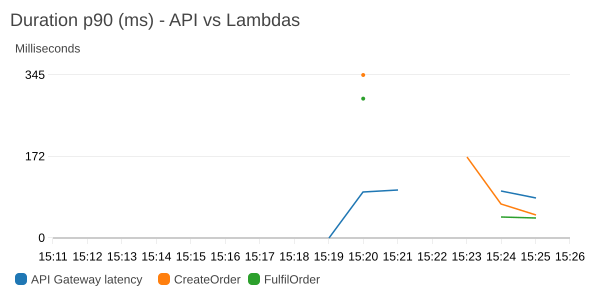
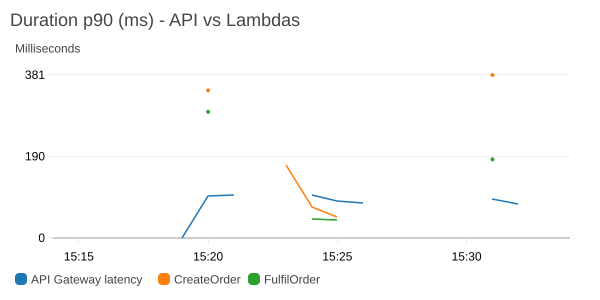
README: refresh dashboard images for the async API
- Re-rendered widgets (incl. the intake queue); alt text describes what each image shows
- Removed the stale fulfilment-only backlog image

diff --git a/README.md b/README.md
@@ -120,10 +120,12 @@ every event in `/aws/events/<stack>`; and the CloudWatch dashboard
 
 | EventBridge `MatchedEvents` | SQS `NumberOfMessagesSent` | SNS `NumberOfMessagesPublished` |
 |---|---|---|
-| ![EventBridge MatchedEvents per rule: three bursts of orders at 14:25, 14:30 and 14:39; the all-events rule peaks at twice the OrderCreated rule](docs/images/dashboard-eventbridge-matchedevents-per-rule.png) | ![SQS NumberOfMessagesSent: fulfilment queue and notifications test queue spike with each burst](docs/images/dashboard-sqs-numberofmessagessent.png) | ![SNS published, delivered and failed: published equals delivered, failed stays at 0](docs/images/dashboard-sns-numberofmessagespublished.png) |
+| ![EventBridge MatchedEvents per rule, 15:14-15:34 UTC: bursts at 15:25 and 15:31; the all-events and SNS rules peak at about twice the OrderCreated rule](docs/images/dashboard-eventbridge-matchedevents-per-rule.png) | ![SQS NumberOfMessagesSent, same window: the intake and fulfilment queue lines overlap, and the notifications test queue peaks at twice their height](docs/images/dashboard-sqs-numberofmessagessent.png) | ![SNS NumberOfMessagesPublished, same window: published and delivered overlap at every burst, failed stays at 0](docs/images/dashboard-sns-numberofmessagespublished.png) |
 
 Images rendered from the deployed dashboard with `scripts/check_dashboard.py --images`
-(CloudWatch `GetMetricWidgetImage`).
+(CloudWatch `GetMetricWidgetImage`). Window: exercise 6 tests (15:20) and two 20-order bursts; over those
+20 minutes 64 orders reached the intake queue and 62 the fulfilment queue — the other two were
+the rejected order (duplicate `itemId`) and a duplicate `orderId` CreateOrder skipped.
 
 ## Data model
 
